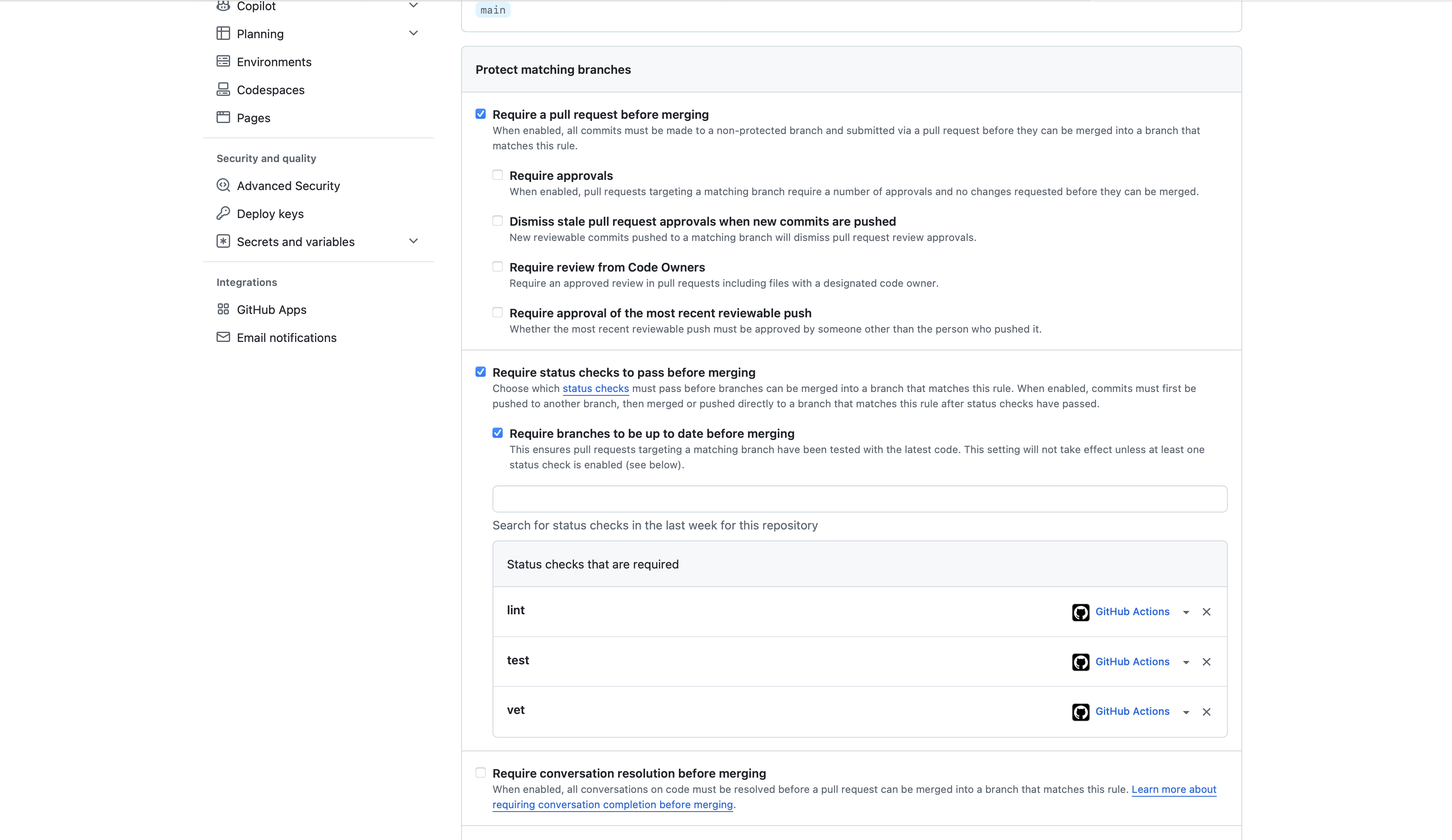
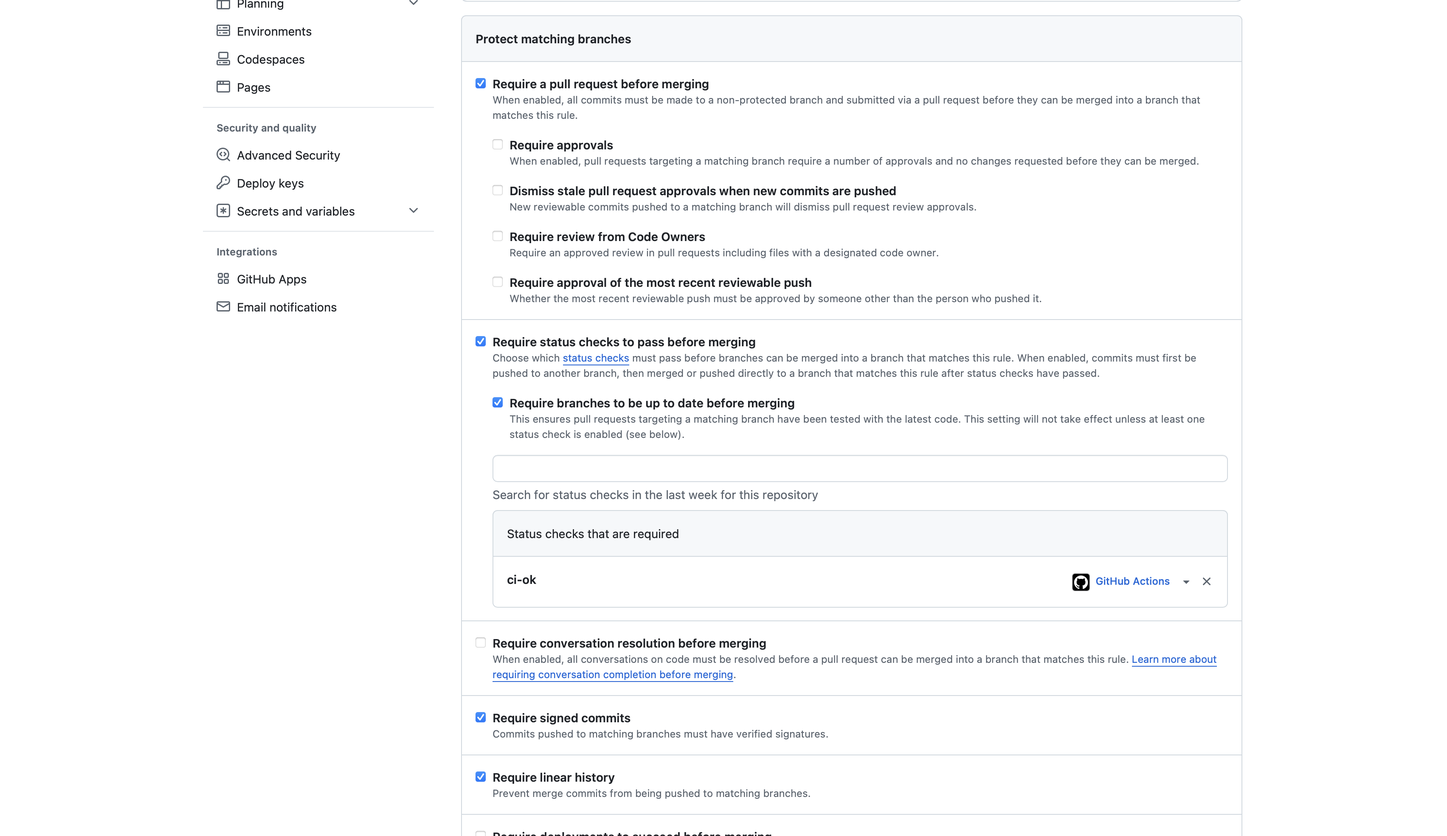
docs(lab3): document all tasks and bonus investigation

diff --git a/submissions/lab3.md b/submissions/lab3.md
@@ -1,146 +1,167 @@
 # Lab 3 submission
 
-**Chosen path: GitHub Actions.** I already run my fork, signed commits, and both previous labs' PRs on github.com, so the GitHub path keeps the whole course on one platform and lets the CI gate protect the same `main` I branch-protected in Lab 1. The GitLab path would have required setting up a parallel mirror on the university GitLab for no additional engineering benefit.
+**Chosen path: GitHub Actions.** My fork, my signed commits and both previous lab PRs already live on github.com, so this keeps the whole course on one platform and lets the gate protect the same `main` I branch-protected in Lab 1.
 
 ---
 
-## Task 1 — Write the PR Gate
+## Task 1: Write the PR Gate
 
-### 1.1: The pipeline
+The pipeline lives in `.github/workflows/ci.yml`.
 
-`.github/workflows/ci.yml` — three independent jobs, each pinned and least-privileged:
-
-| Requirement | How it is met |
-|---|---|
-| Trigger on push to `main` + every PR targeting `main` | `on.push.branches: [main]` and `on.pull_request.branches: [main]` |
-| Three independent units | separate jobs `vet`, `test`, `lint` (no `needs:` between them, so they run in parallel) |
-| `go vet ./...` against `app/` | `vet` job, `working-directory: app` |
-| `go test -race -count=1 ./...` against `app/` | `test` job, `working-directory: app` |
-| `golangci-lint run` pinned to v2.5.0 | `lint` job via `golangci-lint-action` with `version: v2.5.0`, `working-directory: app` |
-| Pinned runtime (no `:latest`) | `runs-on: ubuntu-24.04` in all three jobs |
-| Third-party actions pinned by full 40-char SHA | every `uses:` is a commit SHA with the tag in a trailing comment |
-| `permissions:` least privilege | workflow-level `permissions: contents: read` |
-| Pipeline fails the PR if any unit fails | demonstrated in 1.5 below |
-
-Pinned action SHAs:
-
-```
-actions/checkout@d23441a48e516b6c34aea4fa41551a30e30af803              # v6.1.0
-actions/setup-go@924ae3a1cded613372ab5595356fb5720e22ba16              # v6.5.0
-golangci/golangci-lint-action@d583c34f0599d37dbac4a198b9c83201be380893 # v9.3.0
-```
+Green CI run: https://github.com/aniksel/DevOps-Intro/actions/runs/34476925612
 
 ### 1.2: Design questions
 
-**a) Why pin the runner version (`ubuntu-24.04`) instead of `ubuntu-latest`?**
+**a) Why pin `ubuntu-24.04` instead of `ubuntu-latest`?**
 
-`ubuntu-latest` is a moving alias, not a version. GitHub migrates it to a newer LTS image over a rollout window (22.04 → 24.04, and eventually → 26.04), and when that flip lands, the preinstalled toolchain, system libraries, and default versions of things like `git`, Python, and the C toolchain change underneath the pipeline — with no commit on my side. The failure mode is the worst kind: a build that was green yesterday goes red today for a reason that is not in the diff, and re-running CI on an old commit no longer reproduces the result it originally had. Pinning turns the runner into an explicit, versioned input that gets upgraded in a reviewable, revertable PR.
+`ubuntu-latest` is a moving alias, not a version. GitHub migrates it to a newer LTS image over a rollout window, and when that happens the preinstalled toolchain, system libraries and default tool versions change underneath the pipeline with no commit on my side. The failure mode is the nasty kind: a build that was green yesterday goes red today for a reason that is not in the diff, and re-running CI on an old commit no longer reproduces what it originally did. Pinning makes the runner an explicit input that gets upgraded in a reviewable PR.
 
-**b) Why split vet + test + lint into separate units? What would happen with one combined job?**
+**b) Why split vet, test and lint into separate jobs?**
 
-Three reasons. First, **wall-clock**: as separate jobs they run in parallel on three runners, so the pipeline takes `max(21s, 26s, 29s) ≈ 29s` instead of the roughly 76s a sequential combined job would take. Second, **diagnosis**: a combined job runs commands sequentially and stops at the first non-zero exit, so if `vet` fails I never find out whether the tests also fail — I get one bug per CI round-trip instead of all of them at once. Third, **branch protection granularity**: each job reports its own status check, so `vet`, `test`, and `lint` can be required independently and the PR checks list shows exactly which one is red, rather than one opaque "ci failed".
+Three reasons. Wall-clock: as separate jobs they run in parallel on three runners, so the pipeline takes as long as the slowest one instead of the sum of all three. Diagnosis: a combined job stops at the first non-zero exit, so if `vet` fails I never learn whether the tests also fail, and I get one bug per CI round-trip instead of all of them at once. Granularity: each job reports its own status check, so the PR shows exactly which one is red rather than one opaque "ci failed".
 
 **c) What real attack does SHA pinning prevent?**
 
-The **tj-actions/changed-files supply-chain compromise of March 2025**. An attacker obtained write access to the action's repository and retroactively re-pointed its existing version tags (`v35`, `v44`, and others, plus `v1`) at a malicious commit that dumped the CI runner's process memory and printed the discovered secrets into the build log — which, on public repositories, is world-readable. The critical detail is that a Git tag is a *mutable pointer*: thousands of workflows referencing `tj-actions/changed-files@v35` began executing attacker-controlled code without a single change on the consumer side, and without any of them approving an upgrade. A full 40-character commit SHA is immutable content-addressing — it names one exact commit object, and no amount of re-tagging upstream can redirect it. The cost is that upgrades become explicit (a PR that changes the SHA), which is precisely the point.
+The tj-actions/changed-files compromise of March 2025. An attacker got write access to the action's repository and re-pointed its existing version tags at a malicious commit that dumped the runner's process memory into the build log, which on public repositories is world-readable. The key detail is that a Git tag is a mutable pointer: thousands of workflows referencing `tj-actions/changed-files@v35` started executing attacker code without a single change on the consumer side and without anyone approving an upgrade. A full 40-character SHA is immutable content-addressing, so no amount of re-tagging upstream can redirect it. The cost is that upgrades become explicit, which is exactly the point.
 
 **d) What is `permissions:` and what is the principle behind it?**
 
-`permissions:` declares the scopes granted to the `GITHUB_TOKEN` that GitHub automatically injects into every workflow run — `contents`, `packages`, `issues`, `pull-requests`, `id-token`, and so on, each settable to `read`, `write`, or `none`. The principle is **least privilege**: the token is issued with only the access the job actually requires, so that if any step is subverted — a compromised third-party action, a malicious dependency, a script injection through an untrusted PR title — the blast radius is bounded by what the token could do. My pipeline only clones the repository and runs Go commands, so `contents: read` is sufficient; without an explicit declaration the token may default to far broader write access, which would let a compromised step push commits, publish packages, or approve pull requests.
+It declares the scopes granted to the `GITHUB_TOKEN` that GitHub injects into every run: `contents`, `packages`, `issues`, `pull-requests`, `id-token` and so on, each set to `read`, `write` or `none`. The principle is least privilege. The token gets only the access the job needs, so if any step is subverted (a compromised third-party action, a malicious dependency) the damage is bounded by what that token could do. My pipeline only clones the repo and runs Go commands, so `contents: read` is enough. Without an explicit declaration the token can default to much broader write access, which would let a compromised step push commits or publish packages.
 
-**e) GitLab: what is the difference between a *stage* and a *job*? What would `dependencies:` do that `stages:` doesn't?**
+**e) GitLab: stage vs job, and what does `dependencies:` do that `stages:` doesn't?**
 
-A **job** is the actual unit of work — one script executed in one container by one runner. A **stage** is an ordering bucket that groups jobs: every job inside a stage runs in parallel, and the next stage does not begin until all jobs of the previous stage have succeeded. So `stages:` controls *execution order and gating*, nothing else. `dependencies:` controls a different axis entirely — **artifact flow**: it names which earlier jobs' artifacts should be downloaded into this job's workspace. By default a job downloads the artifacts of *every* job in all preceding stages, which silently wastes time and bandwidth; `dependencies: [build]` narrows that to one job, and `dependencies: []` downloads nothing at all. In other words two jobs can be correctly ordered by stage while passing no files between them, and conversely `needs:` (the DAG form) can let a job start before its entire preceding stage has finished.
+A job is the actual unit of work, one script in one container on one runner. A stage is an ordering bucket: all jobs in a stage run in parallel, and the next stage starts only once every job in the previous one succeeded. So `stages:` controls execution order and gating, nothing else. `dependencies:` controls a different axis, artifact flow: it names which earlier jobs' artifacts get downloaded into this job's workspace. By default a job downloads artifacts from every job in all preceding stages, which quietly wastes time and bandwidth, while `dependencies: []` downloads none. Two jobs can be correctly ordered by stage and still pass no files between them.
 
 ### 1.5: Proving the gate blocks a bad change
 
-Deliberately broke `TestHealth_ReportsCount` in `app/handlers_test.go` by changing the expected note count from 1 to 2, and pushed it (commit `b93f583`).
-
-Result — `test` red, `vet` and `lint` still green, PR blocked:
+I broke `TestHealth_ReportsCount` in `app/handlers_test.go` on purpose, changing the expected note count from 1 to 2, and pushed it as commit `b93f583`. The `test` check went red while `vet` and `lint` stayed green, and the PR could not merge:
 
 ![Failed CI run](screenshots/1_5_failed.png)
 
-Fixed it with a follow-up commit `077d4b1` (`fix(lab3): restore correct expected note count`), restoring the expected value. All three checks green again:
+A follow-up commit `077d4b1` restored the correct value and all three checks went green again:
 
 ![Green CI run after the fix](screenshots/1_5_fixed.png)
 
-Green run job timings: `vet` 21s, `test` 26s, `lint` 29s.
-
 ### 1.6: Branch protection
 
-`main` on my fork requires all three status checks (`vet`, `test`, `lint`) to pass, plus the rules already set in Lab 1 (signed commits, PR before merging, linear history, no admin bypass), and branches must be up to date before merging:
+`main` requires a pull request before merging, requires status checks to pass, requires branches to be up to date, and keeps the Lab 1 rules: signed commits and linear history. The required check is the `ci-ok` aggregation job explained in 2.2, so the Go matrix can change without editing this rule.
 
-![Branch protection with required status checks](screenshots/1_6_protection.png)
+![Branch protection on main](screenshots/1_6_protection.png)
 
 ---
 
-## Task 2 — Make It Fast and Smart
+## Task 2: Make It Fast and Smart
 
 ### 2.1: Caching
 
-`actions/setup-go` caches the Go module cache and the build cache by default (`cache: true`), keyed on the dependency file. To measure its real contribution I disabled it explicitly with `cache: false` for one commit (baseline), then restored it.
-
-The measured contribution was **zero**, for two compounding reasons — and the run log states the second one outright:
+`actions/setup-go` caches the Go module and build caches by default. To measure what it contributes I turned it off with `cache: false` for one commit, then restored it. The contribution is zero, and the run log says why:
 
 ```
-Run actions/setup-go@924ae3a1cded613372ab5595356fb5720e22ba16
 Restore cache failed: Dependencies file is not found in
 /home/runner/work/DevOps-Intro/DevOps-Intro. Supported file pattern: go.mod
 ```
 
-1. **There is nothing to cache.** `app/go.mod` has no `require` block and the module has no `go.sum` at all — QuickNotes is standard-library only, so `go mod download` fetches nothing.
-2. **The cache key could not even be computed.** `setup-go` looks for `go.mod` at the *repository root*, but QuickNotes' module lives in `app/`, so the action never found a dependency file and skipped cache restore entirely. This is fixable with the `cache-dependency-path` input — done and measured in the Bonus task below.
+Two things compound. There is nothing to cache: `app/go.mod` has no `require` block and the module has no `go.sum`, since QuickNotes is standard-library only. And the key could not even be computed, because `setup-go` looks for `go.mod` at the repository root while this module lives in `app/`. The second part is fixable with `cache-dependency-path`, which I do in the bonus task.
 
 ### 2.2: Build matrix
 
-`vet` and `test` now run against Go **1.23** and **1.24** in parallel, with `fail-fast: false` so one bad cell cannot cancel the others.
+`vet` and `test` run against Go 1.23 and 1.24 in parallel, with `fail-fast: false` so one bad cell cannot cancel the others.
 
-**The matrix immediately earned its keep.** On the first matrixed run both 1.23 cells failed while both 1.24 cells passed. The cause: `app/go.mod` declared `go 1.24`, and since Go 1.21 that directive is a hard *minimum*, not a hint — and `actions/setup-go` deliberately exports `GOTOOLCHAIN=local` (see `setGoToolchain()` in the action's source) precisely so that the Go version you asked for is the one that actually runs, instead of silently downloading a newer toolchain behind your back. So the 1.23 cell refused to build the module. I verified locally that the service compiles and passes its tests under Go 1.23 language semantics — it uses no 1.24-only API — so the declared minimum was simply too high, and I lowered the directive to `go 1.23`. This is exactly the class of toolchain-dependent problem the task says a matrix exists to catch.
+The matrix earned its keep immediately. On the first matrixed run both 1.23 cells failed while both 1.24 cells passed, because `app/go.mod` declared `go 1.24`, and since Go 1.21 that directive is a hard minimum rather than a hint. `actions/setup-go` also exports `GOTOOLCHAIN=local` on purpose, so the version you ask for is the one that runs instead of silently downloading a newer toolchain. I verified locally that the service compiles and passes its tests under Go 1.23, since it uses no 1.24-only API, so the declared minimum was simply too high and I lowered it. This is exactly the kind of toolchain-dependent problem a matrix exists to surface.
 
-**The renamed-checks pitfall, observed live.** Adding the matrix renamed the status checks to `vet (1.23)`, `vet (1.24)`, `test (1.23)`, `test (1.24)`. Branch protection still required the old contexts `vet` and `test`, which will never report again, so they sat at *"Expected — Waiting for status to be reported"* with the **Required** badge while every real check was green — the PR was permanently unmergeable:
-
-![Required checks stuck at Expected after the matrix renamed them](screenshots/2_2_expected_stuck.png)
-
-The fix is the robust one from the task description: a single aggregation job `ci-ok` that `needs: [changes, vet, test, lint]` and carries `if: always()`, and branch protection requires **only** `ci-ok`. The matrix can now grow or shrink without anyone touching the protection settings. The `if: always()` is not cosmetic — without it a failed dependency causes this job to be *skipped* rather than run, and a skipped required check can let a broken PR through.
-
-![All checks green with ci-ok as the single required check](screenshots/2_2_ci_ok_required.png)
+The matrix also renames the checks to `vet (1.23)`, `vet (1.24)` and so on, which leaves any branch protection rule that required the old names waiting forever on a context that will never report again. The pipeline therefore ends in an aggregation job, `ci-ok`, with `needs: [changes, vet, test, lint]` and `if: always()`, and branch protection requires only that. The matrix can now change without anyone touching the protection settings. The `if: always()` matters: without it a failed dependency skips the job, and a skipped required check can let a broken PR through.
 
 ### 2.3: Skipping docs-only changes
 
-The pipeline only does real work when something under `app/` or `.github/workflows/` changed. A cheap `changes` job resolves the PR's merge base, diffs it against the head, and publishes a boolean output; `vet`, `test` and `lint` carry `if: needs.changes.outputs.code == 'true'`.
+The pipeline only does real work when something under `app/` or `.github/workflows/` changed. A cheap `changes` job resolves the PR's merge base, diffs it against the head and publishes a boolean, and `vet`, `test` and `lint` carry `if: needs.changes.outputs.code == 'true'`.
 
-**Why not the trigger-level `paths:` filter.** I implemented it that way first and it broke, for a reason worth recording. A trigger-level filter cannot coexist with a *required* aggregated check: on a docs-only PR the workflow never starts at all, so `ci-ok` never reports, and branch protection blocks the PR forever at "Expected" — the same dead end as the renamed-checks pitfall, just from a different direction. GitHub's documented workaround is a second workflow with the same job name on the inverse `paths-ignore` filter, which I also tried; it fails too, because `paths` and `paths-ignore` are **not strict complements**. A commit that touches documentation *and* application code matches both filters, both workflows start, and two check runs named `ci-ok` report against the same commit — one of them a stub that always succeeds. That is not a cosmetic glitch but a hole in the gate: with two same-named contexts, a red pipeline can end up looking mergeable. I saw exactly this on my own PR, which touches `app/`, `.github/workflows/` and `submissions/` together.
+I filter inside the workflow rather than with a trigger-level `paths:` filter, because a trigger filter cannot coexist with a required aggregated check: on a docs-only PR the workflow never starts, `ci-ok` never reports, and branch protection blocks the PR forever. Adding a second workflow on the inverse `paths-ignore` does not solve it either, since `paths` and `paths-ignore` are not strict complements: a commit touching documentation and code matches both, both workflows start, and two check runs named `ci-ok` report against the same commit, one of them a stub that always succeeds. That is a hole in the gate. Filtering inside the workflow costs one small runner spin-up on a docs-only change and guarantees exactly one authoritative `ci-ok`.
 
-Filtering inside the workflow costs one small runner spin-up (~4s for `changes`, ~2s for `ci-ok`) on a docs-only change instead of zero, and in exchange there is always exactly one authoritative `ci-ok`, and the expensive 25–36s jobs are correctly skipped.
+Demonstrated on PR #3 (`docs/skip-demo` into `main`), whose whole diff is a single documentation file. The three heavy jobs were skipped and the required check still reported:
+
+![Docs-only PR: vet, test and lint skipped, ci-ok still green](screenshots/2_3_docs_only_skip.png)
+
+This needs to be a separate PR, because `changes` diffs the entire pull request against its merge base rather than looking at the last commit. For a merge gate that is the right question to ask: what matters is the total set of changes being proposed.
 
 ### 2.4: Measurements
 
-Wall-clock is reported as the critical path through the run, since independent jobs execute in parallel: for the first two rows that is simply the slowest of the three jobs; for the matrix row the `changes` gate and the `ci-ok` aggregation sit in series around it.
+Wall-clock is the critical path through the run, since independent jobs run in parallel. For the first two rows that is the slowest of the three jobs; for the matrix row the `changes` gate and the `ci-ok` aggregation sit in series around it.
 
 | Scenario | vet | test | lint | Wall-clock |
 |---|---:|---:|---:|---:|
-| Baseline (no cache, single Go version, no path filter) | 21s | 28s | 36s | **~36s** |
-| With cache | 25s | 31s | 36s | **~36s** |
-| With cache + matrix (1.23 / 1.24) | 23s / 25s | 31s / 36s | 26s | **~42s** |
+| Baseline (no cache, single Go version, no path filter) | 21s | 28s | 36s | ~36s |
+| With cache | 25s | 31s | 36s | ~36s |
+| With cache + matrix (1.23 / 1.24) | 23s / 25s | 31s / 36s | 26s | ~42s |
 
-Per-step breakdown of the baseline run shows where the time actually goes: `go vet` 15s, `go test` 22s, `golangci-lint` 28s, while `actions/setup-go` costs 0–3s and checkout under 1s.
+The per-step breakdown of the baseline run shows where the time goes: `go vet` 15s, `go test` 22s, `golangci-lint` 28s, while `setup-go` costs 0 to 3s and checkout under a second.
 
-Baseline (cache disabled): ![baseline vet](screenshots/2_4_baseline_vet.png) ![baseline test](screenshots/2_4_baseline_test.png) ![baseline lint](screenshots/2_4_baseline_lint.png)
-
-With cache: ![cached vet](screenshots/2_4_cached_vet.png) ![cached test](screenshots/2_4_cached_test.png) ![cached lint](screenshots/2_4_cached_lint.png)
-
-**Reading the table honestly.** Caching moved nothing — the cached run is a couple of seconds *slower*, which is runner-to-runner noise, not a regression: the actual work is unchanged (`go test` is 22s in both, `golangci-lint` 28s in both). That is the expected result for a zero-dependency module, and the run log's "Restore cache failed" annotation confirms the cache never even engaged. The matrix doubles the amount of work performed but costs only ~6s of wall-clock, because the cells run concurrently — what the matrix really spends is CI minutes (roughly double), not the developer's waiting time. Individual numbers come from single runs, so differences under a few seconds should not be read as signal.
+Caching moves nothing here, and the cached run is even a couple of seconds slower, which is runner noise rather than a regression: the actual work is unchanged, `go test` 22s in both and `golangci-lint` 28s in both. That is the expected result for a zero-dependency module, and the "Restore cache failed" annotation confirms the cache never engaged. The matrix doubles the work performed but costs only about 6s of wall-clock, because the cells run concurrently. What it spends is CI minutes, not developer waiting time. All figures come from single runs, so differences under a few seconds are not signal.
 
 ### 2.5: Design questions
 
 **f) Why cache `go.sum`-keyed inputs and not build outputs?**
 
-Because inputs are content-addressed and outputs are not. A `go.sum` line pins both an exact module version and its cryptographic hash, so a cache keyed on `go.sum` either restores precisely the dependency set the build asked for, or misses — it can never quietly substitute a different one, because a mismatch fails loudly on verification. A compiled output has no such guarantee: it depends on the toolchain version, build tags, `CGO_ENABLED`, `GOOS`/`GOARCH`, and the exact compiler flags, and any cache key that fails to capture all of those will cheerfully hand back a stale object that *looks* valid. The failure modes are asymmetric — a wrong input crashes the build immediately, a wrong output produces a green pipeline shipping a binary nobody can reproduce. On this project the entire question is moot in practice, since there are no third-party inputs to cache at all.
+Because inputs are content-addressed and outputs are not. A `go.sum` line pins both an exact module version and its hash, so a cache keyed on it either restores precisely the dependency set the build asked for or misses. It cannot quietly substitute a different one, since a mismatch fails loudly on verification. A compiled output has no such guarantee: it depends on the toolchain version, build tags, `CGO_ENABLED`, `GOOS`/`GOARCH` and the exact compiler flags, and any key that fails to capture all of those will hand back a stale object that looks valid. The failure modes are asymmetric. A wrong input crashes the build immediately, a wrong output produces a green pipeline shipping a binary nobody can reproduce. On this project the question is moot in practice, since there are no third-party inputs to cache.
 
-**g) What does `fail-fast: false` change in a matrix run, and when do you actually want `fail-fast: true`?**
+**g) What does `fail-fast: false` change, and when do you want `fail-fast: true`?**
 
-With the default `fail-fast: true`, the moment any matrix cell fails GitHub cancels every other cell still running. `fail-fast: false` lets them all finish. You want `false` whenever the matrix exists to produce *information*: the question "is this broken on 1.23, on 1.24, or on both?" is unanswerable if the first red cell kills the rest, and you would need a second full run just to find out. This lab is a live example — because `fail-fast: false` was set, one run showed both 1.23 cells red and both 1.24 cells green, which localized the problem to the toolchain instantly. You want `true` when the cells are effectively equivalent and expensive: a wide matrix of long integration tests where any single failure already means "this commit is bad", and letting the other thirty-nine cells run to completion just burns runner minutes to re-learn the same fact.
+With the default `fail-fast: true`, the moment one matrix cell fails GitHub cancels every other cell still running. `fail-fast: false` lets them all finish. You want `false` whenever the matrix exists to produce information: "is this broken on 1.23, on 1.24, or both?" is unanswerable if the first red cell kills the rest, and you would need a second full run to find out. This lab is a live example. Because `fail-fast: false` was set, one run showed both 1.23 cells red and both 1.24 cells green, which localized the problem to the toolchain instantly. You want `true` when the cells are effectively equivalent and expensive, like a wide matrix of long integration tests where any single failure already means the commit is bad and the remaining cells just burn runner minutes.
 
 **h) What is the risk of an attacker writing a cache from a malicious PR that protected branches later read?**
 
-This is **cache poisoning**. A pull request opened from a fork runs with a read-only `GITHUB_TOKEN`, but it can still *write* cache entries — and cache entries are just bytes that a later job will unpack and execute (a tampered module in the module cache, a doctored object in the build cache). If a workflow on a protected branch were able to restore an entry authored by that PR, attacker-controlled code would run in a privileged context with access to real secrets. GitHub's mitigation is **cache scope isolation**: a run can restore caches created in its own branch and in the repository's default branch, but not caches created in *other* branches, and a pull request's cache is scoped to that PR's merge ref, so `main` can never read it. Trust flows one way — from the default branch outward to feature branches, never back. That bounds the risk without erasing it: if an attacker gets a malicious PR merged into the default branch, its cache becomes readable everywhere, which is why deriving cache keys from hash-pinned inputs (question f) matters as defence in depth. GitHub documents the scoping rules under "Caching dependencies to speed up workflows → Restrictions for accessing a cache".
+Cache poisoning. A PR from a fork runs with a read-only token, but it can still write cache entries, and those entries are bytes that a later job unpacks and executes: a tampered module, a doctored object in the build cache. If a workflow on a protected branch could restore an entry authored by that PR, attacker code would run in a privileged context with access to real secrets. GitHub's mitigation is cache scope isolation: a run can restore caches from its own branch and from the default branch, but not from other branches, and a pull request's cache is scoped to that PR's merge ref, so `main` can never read it. Trust flows one way, from the default branch outward. That bounds the risk without erasing it, since a malicious PR that does get merged into the default branch makes its cache readable everywhere. Which is why deriving cache keys from hash-pinned inputs, as in question f, matters as defence in depth.
+
+---
+
+## Bonus Task: Pipeline Performance Investigation
+
+### B.1: Profile
+
+Per-step timings from the baseline run:
+
+| Phase | vet | test | lint |
+|---|---:|---:|---:|
+| Runner start | 1s | 1s | 2s |
+| Checkout | 0s | 1s | 1s |
+| Dependency setup (`setup-go`) | 2s | 0s | 1s |
+| Actual work | `go vet` 15s | `go test` 22s | `golangci-lint` 28s |
+| Cleanup | 0s | 0s | 1s |
+
+The shape is unusual. On most projects dependency setup dominates a cold pipeline, but here it is 0 to 2 seconds: the Go toolchain is already baked into the runner image and there are no third-party modules to fetch. Over 90% of every job is compilation, since `go vet`, `go test` and `golangci-lint` each type-check and build the same package from scratch. There is no download to eliminate, only compiler work to reuse.
+
+### B.2: Optimizations applied
+
+**1. `cache-dependency-path: app/go.mod` on every `setup-go` step.** This fixes the "Restore cache failed" warning from 2.1: the action searches the repository root while the module lives in `app/`, so it had been skipping the cache silently. With a computable key the Go build cache persists between runs, which is the one thing that can help given that compilation is the whole cost.
+
+**2. `GOFLAGS: -buildvcs=false` at workflow level.** Go stamps VCS metadata into every binary it builds, which forces extra git work on each invocation and is pointless on a CI checkout that ships no versioned artifact.
+
+**3. The `changes` gate no longer clones the repository.** It used to run `actions/checkout` with `fetch-depth: 0`, a full clone, purely to run `git diff`. It now asks the API for the changed file list with the preinstalled `gh` CLI and checks out nothing. Since every other job waits on it, its cost sits directly on the critical path.
+
+**4. `persist-credentials: false` on every checkout.** Not speed but hardening: by default `actions/checkout` leaves the job's token in `.git/config` where any later step can read it. The `changes` job also demonstrates job-level permissions, since only it receives `pull-requests: read` while the workflow default stays `contents: read`.
+
+### B.3: Before / after
+
+Same PR, same runner class. The warm column is a re-run of the optimized workflow, so the build cache written by the previous run is available.
+
+| Job | Before | After (cold cache) | After (warm cache) | Saving |
+|---|---:|---:|---:|---:|
+| changes | 4 to 7s | 4s | 4s | up to -3s |
+| vet (1.23) | 23s | 27s | 25s | +2s |
+| vet (1.24) | 25s | 24s | 17s | -8s |
+| test (1.23) | 31s | 24s | 16s | -15s |
+| test (1.24) | 36s | 33s | 25s | -11s |
+| lint | 26s | 30s | 33s | +7s |
+| ci-ok | 2s | 4s | 2s | 0 |
+| **Wall-clock** | **~42s** | **~41s** | **~39s** | **-3s** |
+
+![First run after the optimizations, cache written but not yet read](screenshots/bonus_run1_cold.png)
+
+![Re-run with a warm build cache](screenshots/bonus_run2_warm.png)
+
+The per-job savings on `test` and `vet` are real: a warm build cache removes 8 to 15 seconds of recompilation from each. Wall-clock moves less, from about 42s to about 39s, because those jobs were never the critical path. `lint` is, and `golangci-lint-action` manages its own cache independently of `setup-go`, so `cache-dependency-path` never reaches it, and its 26 to 33s spread is noise. The lesson is the ordinary one about optimization: shaving 15 seconds off a job that runs in parallel with a longer one buys CI minutes and nothing else.
+
+The 90s target is met, at roughly 39 to 42 seconds.
+
+### B.4: Bottleneck analysis
+
+The dominant step is `golangci-lint` at 28 to 33s. It is both the longest job and the critical path, since `ci-ok` cannot report until it finishes, and nearly all of that is the linter type-checking and compiling the package, with `staticcheck` accounting for most of it. Making it meaningfully shorter would mean changing QuickNotes rather than the pipeline: the service is a single package of a few hundred lines, so there is no incremental-analysis win from splitting it, and the fixed costs of runner provisioning, fetching the pinned linter and one full type-check are irreducible at this size. The realistic levers are dropping the most expensive linter or accepting that a service this small has a floor of about half a minute. I would stop optimizing here, well under a minute: a fast pipeline matters because a developer does not context-switch away while waiting, and below a minute or two further tuning stops buying attention back. Past that point every extra trick, hand-rolled cache keys, conditional job graphs, self-hosted runners, is more CI complexity to maintain and more ways for the gate to pass silently when it should have failed.
